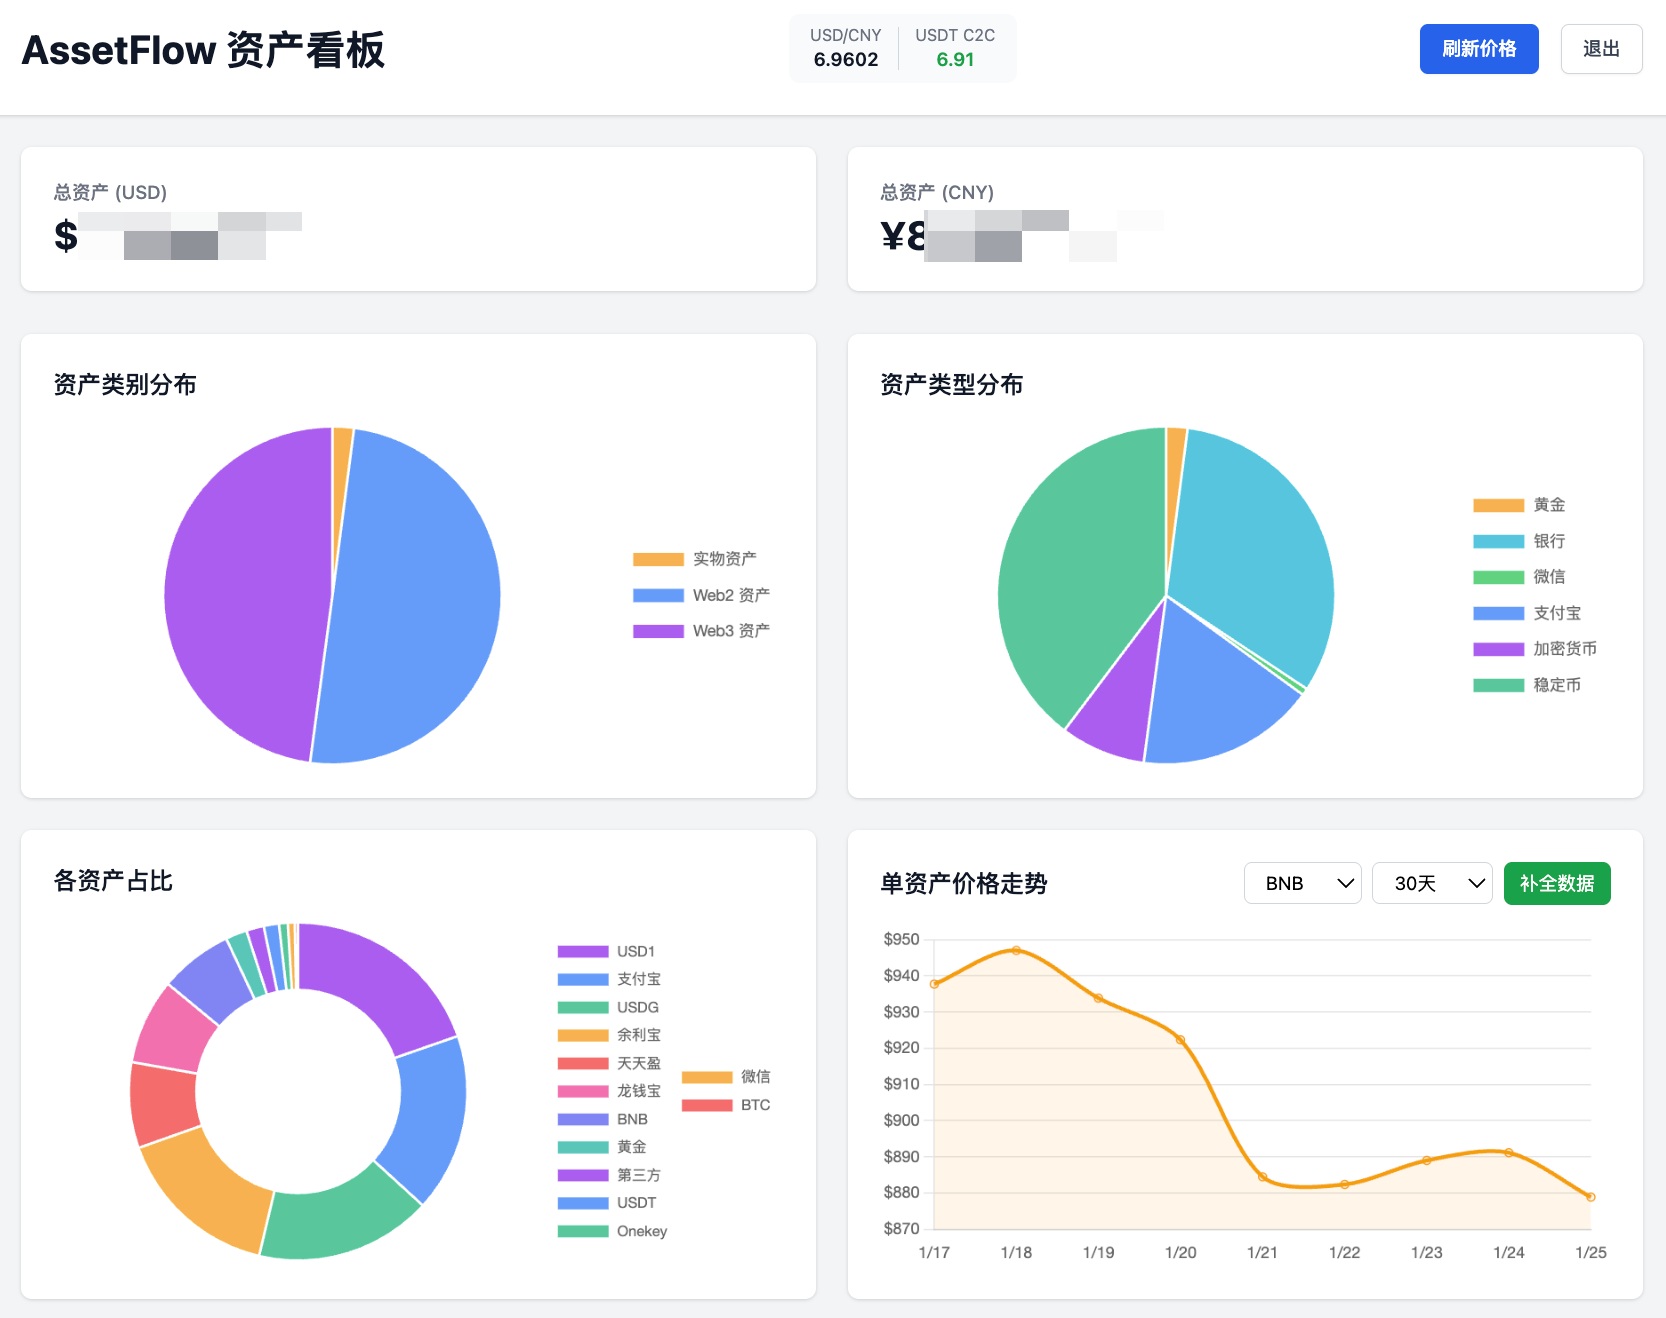
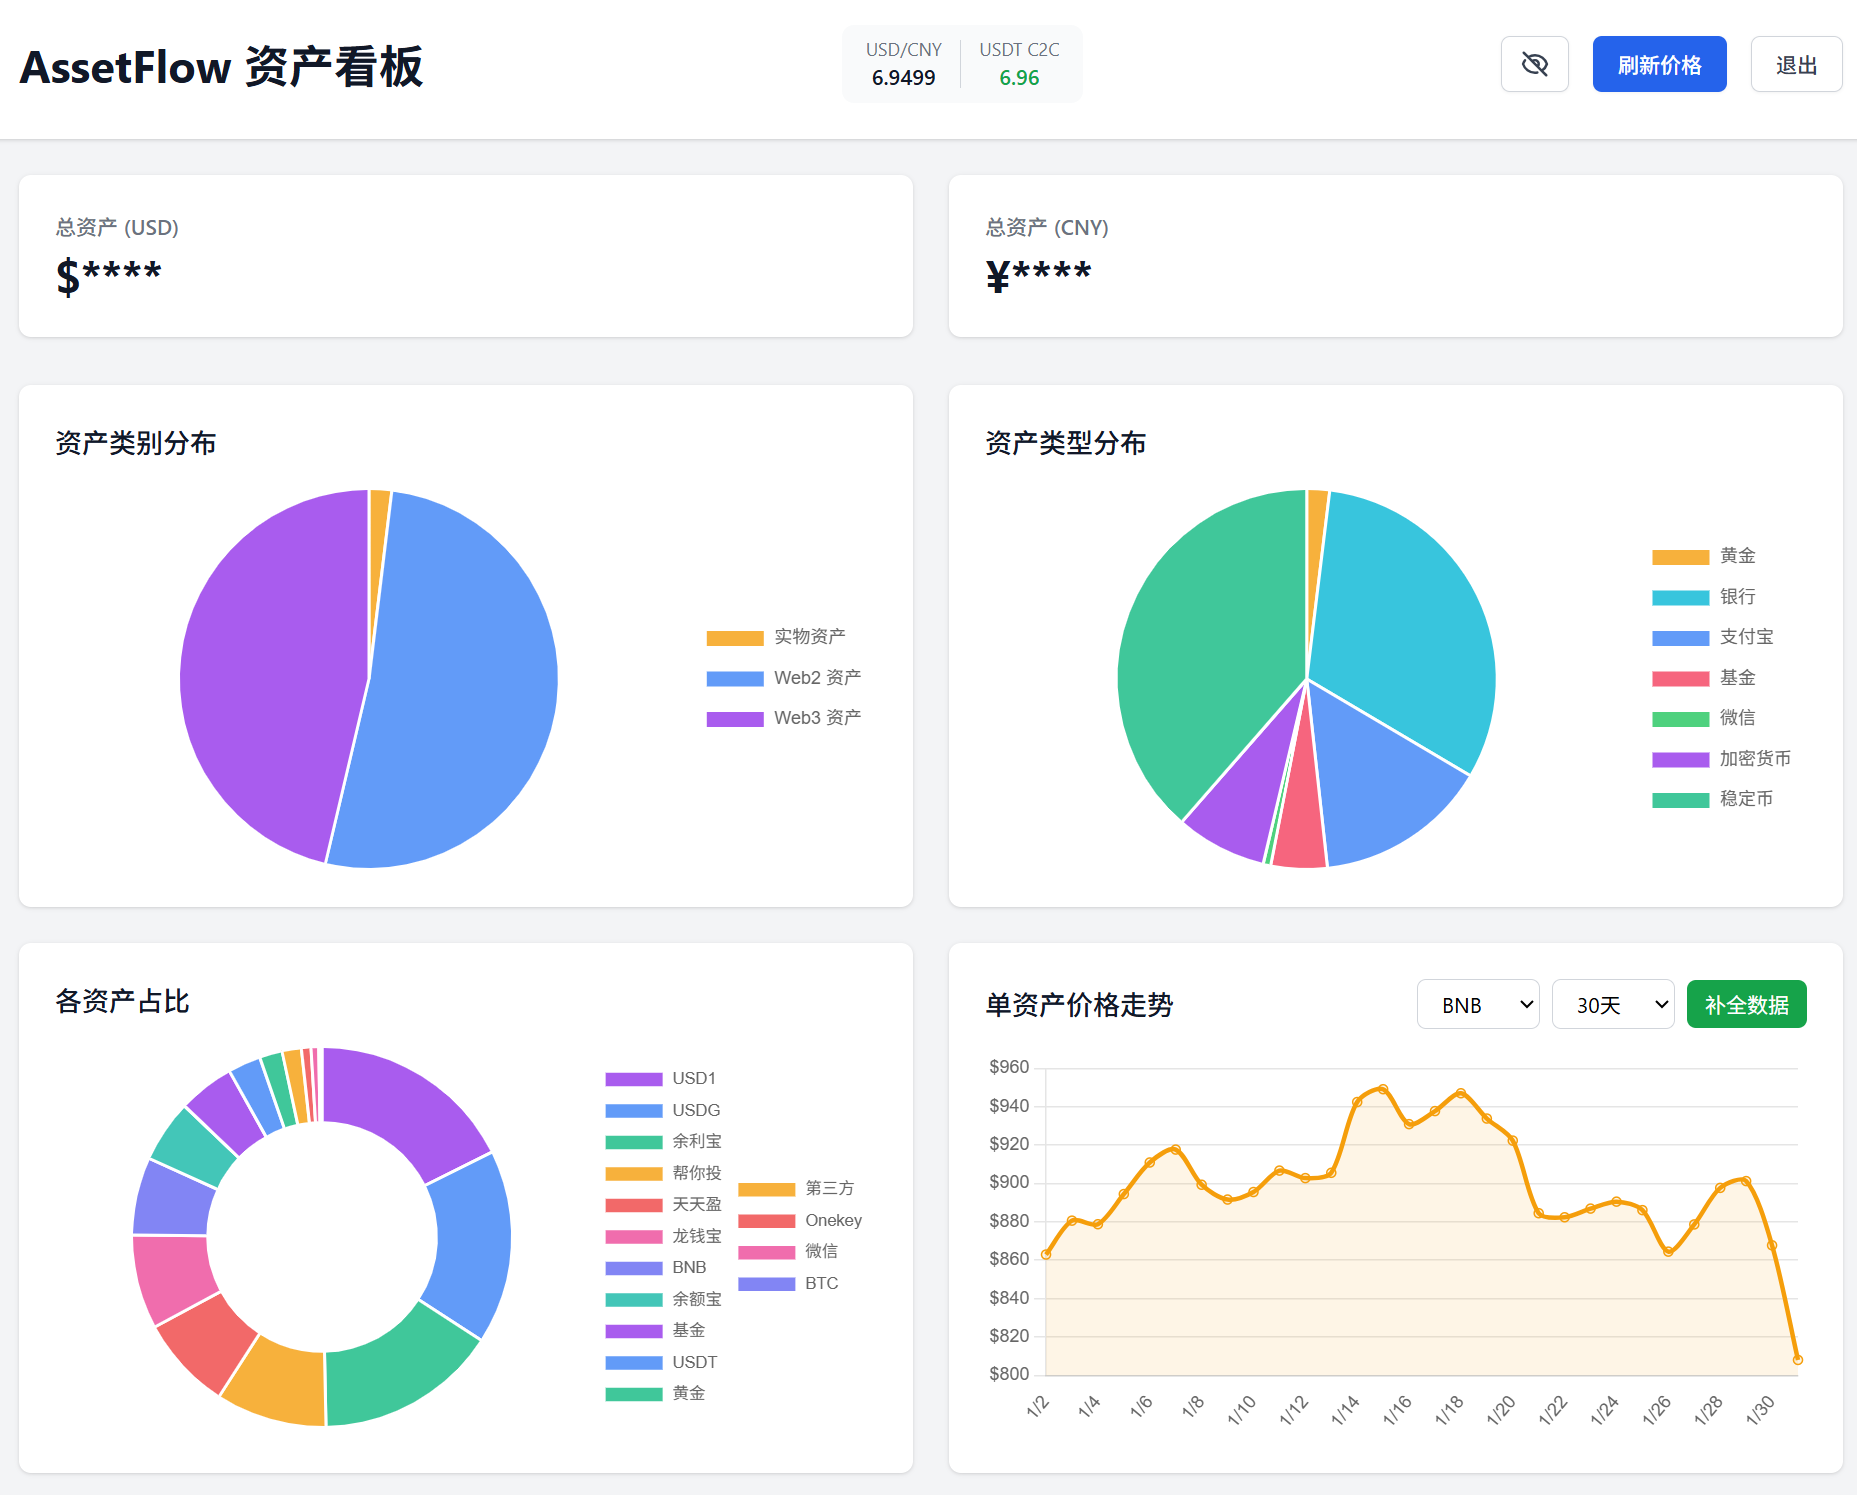
feat: 添加隐私模式功能，一键隐藏敏感资产数据
- 新增眼睛按钮（位于刷新价格按钮左侧）切换隐私模式
  - 隐私模式下隐藏：资产数量、价值(USD/CNY)、存放位置、分类小计
  - 资产总价值走势图保留曲线但隐藏纵坐标数值和tooltip
  - 更新 README 添加隐私模式说明和新截图

  变更的文件：
  - src/App.vue - 添加隐私模式状态和眼睛切换按钮
  - src/components/AssetList.vue - 隐藏数量、价值、位置
  - src/components/Dashboard.vue - 隐藏总资产、分类金额，走势图Y轴掩码
  - README.md - 添加隐私模式特性说明
  - assets/screenshot-*.png - 更新截图（3张

diff --git a/src/components/Dashboard.vue b/src/components/Dashboard.vue
@@ -4,11 +4,11 @@
     <div class="grid grid-cols-1 md:grid-cols-2 gap-6 mb-8">
       <div class="bg-white rounded-lg shadow p-6">
         <h3 class="text-sm font-medium text-gray-500 mb-1">总资产 (USD)</h3>
-        <p class="text-3xl font-bold text-gray-900">${{ formatNumber(data?.totalUsd || 0) }}</p>
+        <p class="text-3xl font-bold text-gray-900">${{ privacyMode ? '****' : formatNumber(data?.totalUsd || 0) }}</p>
       </div>
       <div class="bg-white rounded-lg shadow p-6">
         <h3 class="text-sm font-medium text-gray-500 mb-1">总资产 (CNY)</h3>
-        <p class="text-3xl font-bold text-gray-900">¥{{ formatNumber(data?.totalCny || 0) }}</p>
+        <p class="text-3xl font-bold text-gray-900">¥{{ privacyMode ? '****' : formatNumber(data?.totalCny || 0) }}</p>
       </div>
     </div>
 
@@ -84,7 +84,7 @@
     <div class="bg-white rounded-lg shadow p-6 mb-8">
       <h3 class="text-lg font-medium text-gray-900 mb-4">资产总价值走势 (30天)</h3>
       <div class="h-72">
-        <Line v-if="totalValueChartData" :data="totalValueChartData" :options="totalValueLineOptions" />
+        <Line v-if="totalValueChartData" :data="totalValueChartData" :options="totalValueLineOptionsComputed" />
         <div v-else class="h-full flex items-center justify-center text-gray-400">
           暂无历史数据，请先补全价格数据
         </div>
@@ -106,14 +106,14 @@
               {{ getCategoryLabel(key) }}
             </span>
             <span class="text-xs text-gray-500">
-              {{ getPercentage(category.totalUsd) }}%
+              {{ privacyMode ? '**' : getPercentage(category.totalUsd) }}%
             </span>
           </div>
           <div class="text-xl font-semibold text-gray-900 mb-1">
-            ${{ formatNumber(category.totalUsd) }}
+            ${{ privacyMode ? '****' : formatNumber(category.totalUsd) }}
           </div>
           <div class="text-sm text-gray-500">
-            ¥{{ formatNumber(category.totalCny) }}
+            ¥{{ privacyMode ? '****' : formatNumber(category.totalCny) }}
           </div>
           <!-- Progress bar -->
           <div class="mt-2 h-2 bg-gray-200 rounded-full overflow-hidden">
@@ -139,7 +139,8 @@ ChartJS.register(ArcElement, Tooltip, Legend, CategoryScale, LinearScale, PointE
 const props = defineProps({
   data: Object,
   priceHistory: Array,
-  backfilling: Boolean
+  backfilling: Boolean,
+  privacyMode: Boolean
 })
 
 defineEmits(['backfill', 'daysChange'])
@@ -495,13 +496,14 @@ const singleAssetLineOptions = {
   }
 }
 
-// 总价值图表配置
-const totalValueLineOptions = {
+// 总价值图表配置（响应式，根据隐私模式调整）
+const totalValueLineOptionsComputed = computed(() => ({
   responsive: true,
   maintainAspectRatio: false,
   plugins: {
     legend: { display: false },
     tooltip: {
+      enabled: !props.privacyMode,
       callbacks: {
         label: (context) => `总价值: $${context.raw?.toLocaleString('en-US', { minimumFractionDigits: 2 }) || '-'}`
       }
@@ -512,11 +514,11 @@ const totalValueLineOptions = {
     y: {
       beginAtZero: false,
       ticks: {
-        callback: (value) => '$' + value.toLocaleString()
+        callback: (value) => props.privacyMode ? '****' : '$' + value.toLocaleString()
       }
     }
   }
-}
+}))
 
 function formatNumber(num) {
   if (num === undefined || num === null) return '0'

diff --git a/src/App.vue b/src/App.vue
@@ -66,6 +66,22 @@
             </div>
 
             <div class="flex items-center gap-4">
+              <!-- 隐私模式切换按钮 -->
+              <button
+                @click="privacyMode = !privacyMode"
+                class="inline-flex items-center px-3 py-2 border border-gray-300 text-sm font-medium rounded-md shadow-sm text-gray-700 bg-white hover:bg-gray-50"
+                :title="privacyMode ? '显示数据' : '隐藏敏感数据'"
+              >
+                <!-- 眼睛打开图标 -->
+                <svg v-if="!privacyMode" class="h-5 w-5" fill="none" viewBox="0 0 24 24" stroke="currentColor" stroke-width="2">
+                  <path stroke-linecap="round" stroke-linejoin="round" d="M15 12a3 3 0 11-6 0 3 3 0 016 0z" />
+                  <path stroke-linecap="round" stroke-linejoin="round" d="M2.458 12C3.732 7.943 7.523 5 12 5c4.478 0 8.268 2.943 9.542 7-1.274 4.057-5.064 7-9.542 7-4.477 0-8.268-2.943-9.542-7z" />
+                </svg>
+                <!-- 眼睛关闭图标 -->
+                <svg v-else class="h-5 w-5" fill="none" viewBox="0 0 24 24" stroke="currentColor" stroke-width="2">
+                  <path stroke-linecap="round" stroke-linejoin="round" d="M13.875 18.825A10.05 10.05 0 0112 19c-4.478 0-8.268-2.943-9.543-7a9.97 9.97 0 011.563-3.029m5.858.908a3 3 0 114.243 4.243M9.878 9.878l4.242 4.242M9.88 9.88l-3.29-3.29m7.532 7.532l3.29 3.29M3 3l3.59 3.59m0 0A9.953 9.953 0 0112 5c4.478 0 8.268 2.943 9.543 7a10.025 10.025 0 01-4.132 5.411m0 0L21 21" />
+                </svg>
+              </button>
               <button
                 @click="handleRefreshPrices"
                 :disabled="refreshing"
@@ -117,12 +133,14 @@
             :data="dashboard"
             :price-history="priceHistory"
             :backfilling="backfilling"
+            :privacy-mode="privacyMode"
             @backfill="handleBackfill"
             @days-change="handleDaysChange"
           />
           <AssetList
             :assets="dashboard?.assets || []"
             :by-category="dashboard?.byCategory || {}"
+            :privacy-mode="privacyMode"
             @edit="openEditForm"
             @delete="handleDelete"
             @add="openAddFormWithCategory"
@@ -183,6 +201,7 @@ const backfilling = ref(false)
 const historyDays = ref(30)
 const showForm = ref(false)
 const editingAsset = ref(null)
+const privacyMode = ref(false)
 
 // Cache utilities - 支持 stale-while-revalidate 模式
 const CACHE_KEY = 'assetflow_cache'

diff --git a/src/components/AssetList.vue b/src/components/AssetList.vue
@@ -53,19 +53,19 @@
                 </div>
               </td>
               <td class="px-6 py-4 whitespace-nowrap text-sm text-gray-900">
-                {{ formatAmount(asset.amount) }} {{ asset.unit }}
+                {{ props.privacyMode ? '****' : formatAmount(asset.amount) }} {{ asset.unit }}
               </td>
               <td class="px-6 py-4 whitespace-nowrap text-sm text-gray-900">
                 ${{ formatUnitPrice(asset.price?.priceUsd || 0) }}
               </td>
               <td class="px-6 py-4 whitespace-nowrap text-sm font-medium text-gray-900">
-                ${{ formatNumber(asset.valueUsd) }}
+                ${{ props.privacyMode ? '****' : formatNumber(asset.valueUsd) }}
               </td>
               <td class="px-6 py-4 whitespace-nowrap text-sm text-gray-900">
-                ¥{{ formatNumber(asset.valueCny) }}
+                ¥{{ props.privacyMode ? '****' : formatNumber(asset.valueCny) }}
               </td>
               <td class="px-6 py-4 whitespace-nowrap text-sm text-gray-500">
-                {{ asset.location || '-' }}
+                {{ props.privacyMode ? '****' : (asset.location || '-') }}
               </td>
               <td class="px-6 py-4 whitespace-nowrap text-right text-sm font-medium">
                 <button @click="$emit('edit', asset)" class="text-blue-600 hover:text-blue-900 mr-3">编辑</button>
@@ -77,8 +77,8 @@
           <tfoot class="bg-gray-50">
             <tr>
               <td colspan="3" class="px-6 py-3 text-sm font-medium text-gray-900">小计</td>
-              <td class="px-6 py-3 text-sm font-bold text-gray-900">${{ formatNumber(category.totalUsd) }}</td>
-              <td class="px-6 py-3 text-sm font-bold text-gray-900">¥{{ formatNumber(category.totalCny) }}</td>
+              <td class="px-6 py-3 text-sm font-bold text-gray-900">${{ props.privacyMode ? '****' : formatNumber(category.totalUsd) }}</td>
+              <td class="px-6 py-3 text-sm font-bold text-gray-900">¥{{ props.privacyMode ? '****' : formatNumber(category.totalCny) }}</td>
               <td colspan="2"></td>
             </tr>
           </tfoot>
@@ -89,9 +89,10 @@
 </template>
 
 <script setup>
-defineProps({
+const props = defineProps({
   assets: Array,
-  byCategory: Object
+  byCategory: Object,
+  privacyMode: Boolean
 })
 
 defineEmits(['edit', 'delete', 'add'])
